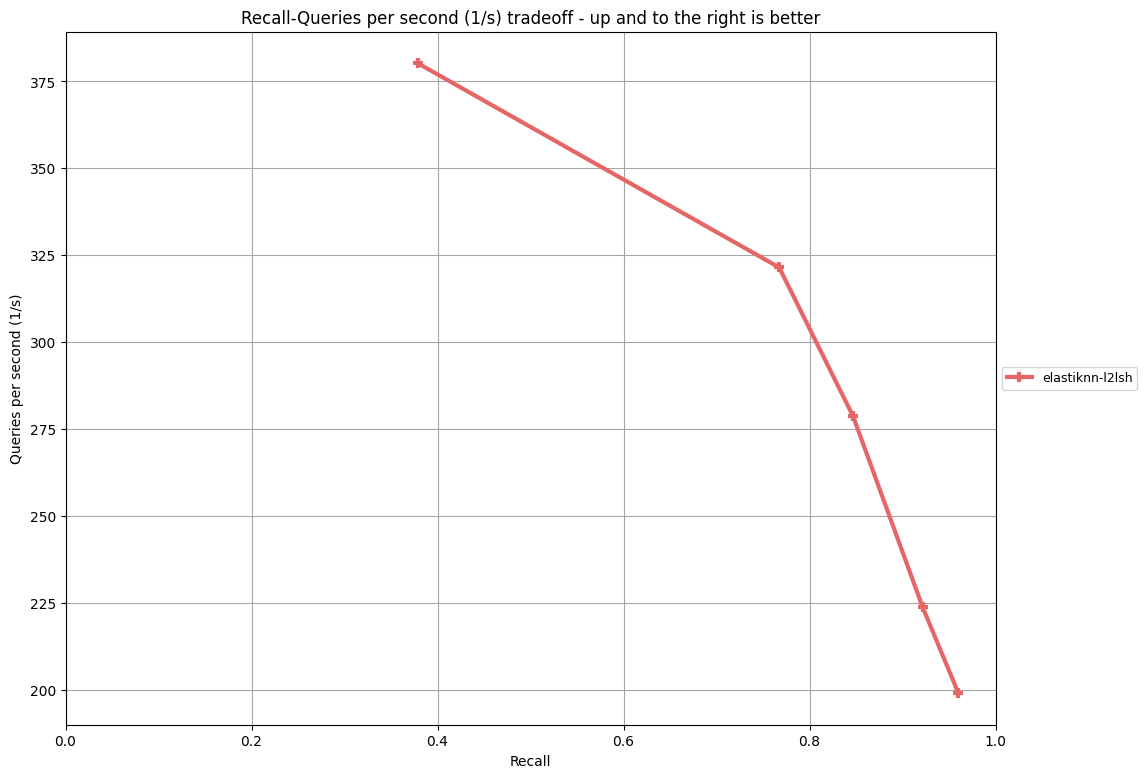
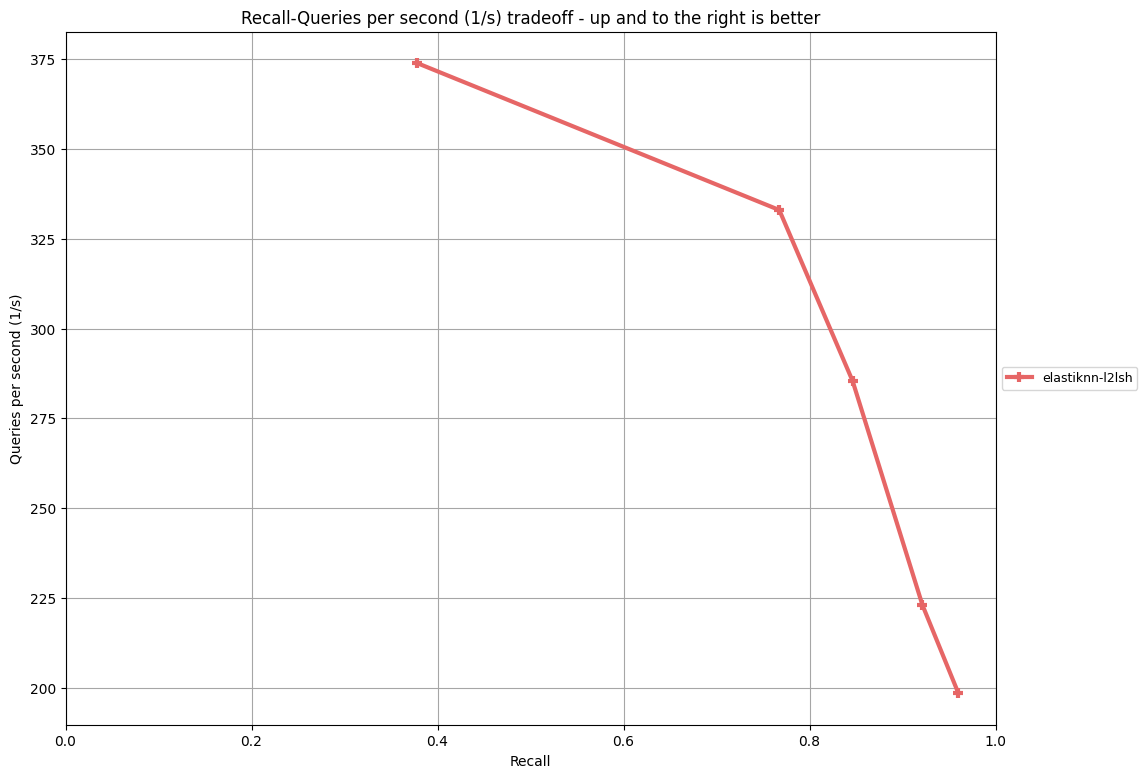
Benchmark results

diff --git a/docs/pages/performance/fashion-mnist/results.md b/docs/pages/performance/fashion-mnist/results.md
@@ -1,10 +1,10 @@
 |Model|Parameters|Recall|Queries per Second|
 |---|---|---|---|
-|eknn-l2lsh|L=100 k=4 w=1024 candidates=500 probes=0|0.379|380.255|
-|eknn-l2lsh|L=100 k=4 w=1024 candidates=1000 probes=0|0.447|315.911|
-|eknn-l2lsh|L=100 k=4 w=1024 candidates=500 probes=3|0.635|300.165|
-|eknn-l2lsh|L=100 k=4 w=1024 candidates=1000 probes=3|0.717|249.832|
-|eknn-l2lsh|L=100 k=4 w=2048 candidates=500 probes=0|0.767|321.474|
-|eknn-l2lsh|L=100 k=4 w=2048 candidates=1000 probes=0|0.847|278.700|
-|eknn-l2lsh|L=100 k=4 w=2048 candidates=500 probes=3|0.922|223.717|
-|eknn-l2lsh|L=100 k=4 w=2048 candidates=1000 probes=3|0.960|198.945|
+|eknn-l2lsh|L=100 k=4 w=1024 candidates=500 probes=0|0.378|373.910|
+|eknn-l2lsh|L=100 k=4 w=1024 candidates=1000 probes=0|0.447|318.251|
+|eknn-l2lsh|L=100 k=4 w=1024 candidates=500 probes=3|0.634|299.716|
+|eknn-l2lsh|L=100 k=4 w=1024 candidates=1000 probes=3|0.716|260.863|
+|eknn-l2lsh|L=100 k=4 w=2048 candidates=500 probes=0|0.767|333.027|
+|eknn-l2lsh|L=100 k=4 w=2048 candidates=1000 probes=0|0.846|285.399|
+|eknn-l2lsh|L=100 k=4 w=2048 candidates=500 probes=3|0.921|223.000|
+|eknn-l2lsh|L=100 k=4 w=2048 candidates=1000 probes=3|0.960|198.442|
